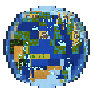
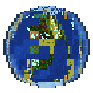
Fixed global projection latitude distortion

diff --git a/modules/interface_types/world_grids.py b/modules/interface_types/world_grids.py
@@ -1389,7 +1389,10 @@ class world_grid(grid):
     ):
         """
         Description:
-            Scans a latitude line for any nearby coordinates that have no latitude line, allowing extending a latitude line's length while also missing fewer cells
+            If mode is equator_shift, shows the adjacent coordinate that is closer to the equator
+                Reduces latitude distortions (tiles appear at accurate latitudes, slightly distorted to bulge equator) but misses some tiles
+            If mode is closest_unerpresnted, scans a latitude line for any nearby coordinates that have no latitude line, allowing extending a latitude line's length while also missing fewer cells
+                Misses fewer coordinates but introduces latitude distortions (tiles appearing at significantly inaccurate latitude)
         Input:
             list latitude_line: List of coordinates for each point in the latitude line
             tuple default_coordinates: Coordinates to insert if no other coordinates are found
@@ -1399,22 +1402,36 @@ class world_grid(grid):
         """
         inserted_coordinates = default_coordinates
         inserted_idx = latitude_line.index(default_coordinates)
-        for idx, coordinates in enumerate(latitude_line):
-            for offset in [(0, 1), (1, 0), (0, -1), (-1, 0)]:
-                adjacent_coordinates = (
-                    (coordinates[0] + offset[0]) % self.coordinate_width,
-                    (coordinates[1] + offset[1]) % self.coordinate_height,
-                )
-                if (
-                    self.world_handler.latitude_lines_types[adjacent_coordinates[0]][
-                        adjacent_coordinates[1]
-                    ]
-                    == None
-                    and not adjacent_coordinates in latitude_line
-                ):
-                    # If wouldn't be shown in any latitude lines, show here
-                    inserted_coordinates = adjacent_coordinates
-                    inserted_idx = idx
+
+        mode = "equator_shift"
+        if (
+            mode == "equator_shift"
+        ):  # Insert nearby coordinates on the side closer to the equator
+            if inserted_idx < round(len(latitude_line) / 2):
+                inserted_idx += 1
+            elif inserted_idx > round(len(latitude_line) / 2):
+                inserted_idx -= 1
+            inserted_coordinates = latitude_line[inserted_idx]
+
+        elif (
+            mode == "closest_unrepresented"
+        ):  # Insert nearby latitudes that are not contained in any latitude lines
+            for idx, coordinates in enumerate(latitude_line):
+                for offset in [(0, 1), (1, 0), (0, -1), (-1, 0)]:
+                    adjacent_coordinates = (
+                        (coordinates[0] + offset[0]) % self.coordinate_width,
+                        (coordinates[1] + offset[1]) % self.coordinate_height,
+                    )
+                    if (
+                        self.world_handler.latitude_lines_types[
+                            adjacent_coordinates[0]
+                        ][adjacent_coordinates[1]]
+                        == None
+                        and not adjacent_coordinates in latitude_line
+                    ):
+                        # If wouldn't be shown in any latitude lines, show here
+                        inserted_coordinates = adjacent_coordinates
+                        inserted_idx = idx
         return inserted_idx, inserted_coordinates
 
 

diff --git a/Second_Earth.py b/Second_Earth.py
@@ -421,7 +421,6 @@ except Exception:  # Displays error message and records error message in crash l
 # Maybe track when tiles change habitability, as well as display habitability mode
 
 # Upcoming work queue:
-# Possibly show solation as brightness on each tile (shouldn't affect albedo)
 # Add 4+ water as deadly in local habitability equation (but not in global habitability summary)
 # Add spacesuits image have helmeted/helmetless versions depending on if unit is outside
 # Add modern minister outfits
@@ -447,8 +446,7 @@ except Exception:  # Displays error message and records error message in crash l
 # Improve parameter tooltips - most are currently empty
 # Create and display standard movement cost formula based on parameter values
 # Look into minister speech bubbles for minister messages, particularly tutorial messages
-# Prevent polar tiles from appearing too close to equator in globe projection - primary cause of visible distortions
-#   Copy an adjacent tile instead of far away tiles, even if the other tile doesn't have a latitude line
+# Possibly show solation as brightness on each tile (shouldn't affect albedo)
 #
 # Fix this rare crash
 # ERROR:root:<class 'Exception'>
